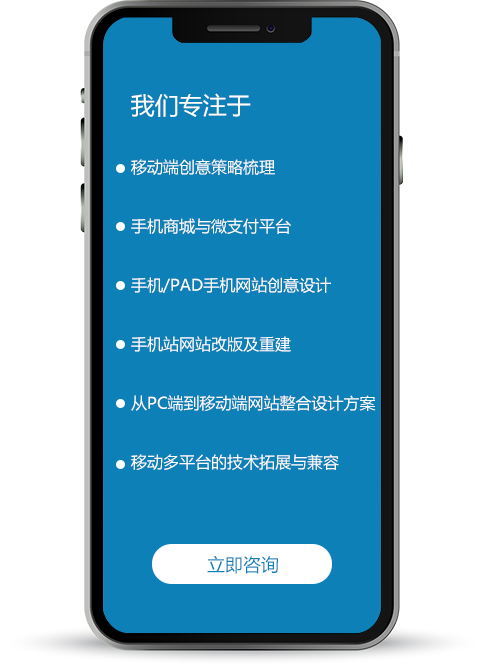
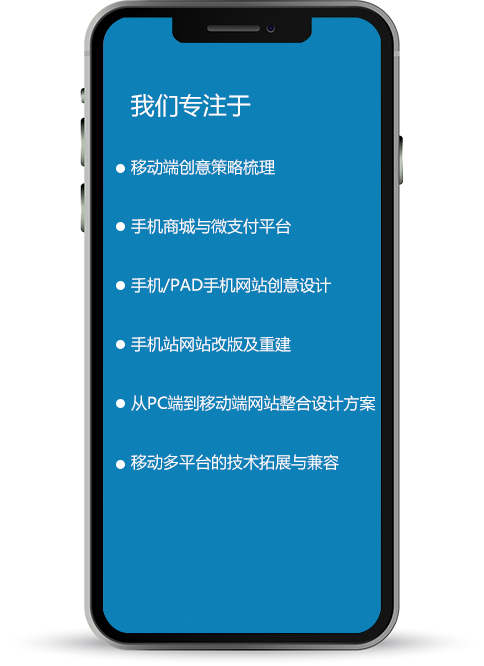
fffff

Changed region(s): [[0.3099, 0.8108, 0.6818, 0.9009]]

diff --git a/mobile.html b/mobile.html
@@ -55,7 +55,21 @@
 					<p><img src="images/fang_img/zuo5.png"></p>
 				</div>
 				<div class="middle">
-					<a><img src="images/fang_img/phoneM.png"></a>
+					<a style="position: relative;">
+						<img src="images/fang_img/phoneM.png">
+						<a class="middle_button" style="
+						position: absolute;
+						top: 18rem;
+						left: 45.5%;
+						width: 1.34rem;
+						height: 0.44rem;
+						background: white;
+						text-align: center;
+						line-height: 0.44rem;
+						border-radius:4em;
+						font-size: 0.18rem;
+						">立即咨询</a>
+					</a>
 				</div>
 				<div class="right">
 					<p><img src="images/fang_img/you1.png"></p>

diff --git a/css/fang.css b/css/fang.css
@@ -520,7 +520,7 @@
 	.middle img {
 		width: 100%;
 	}
-
+	
 	.ZzZy {
 		height: auto;
 		background-size: cover;
